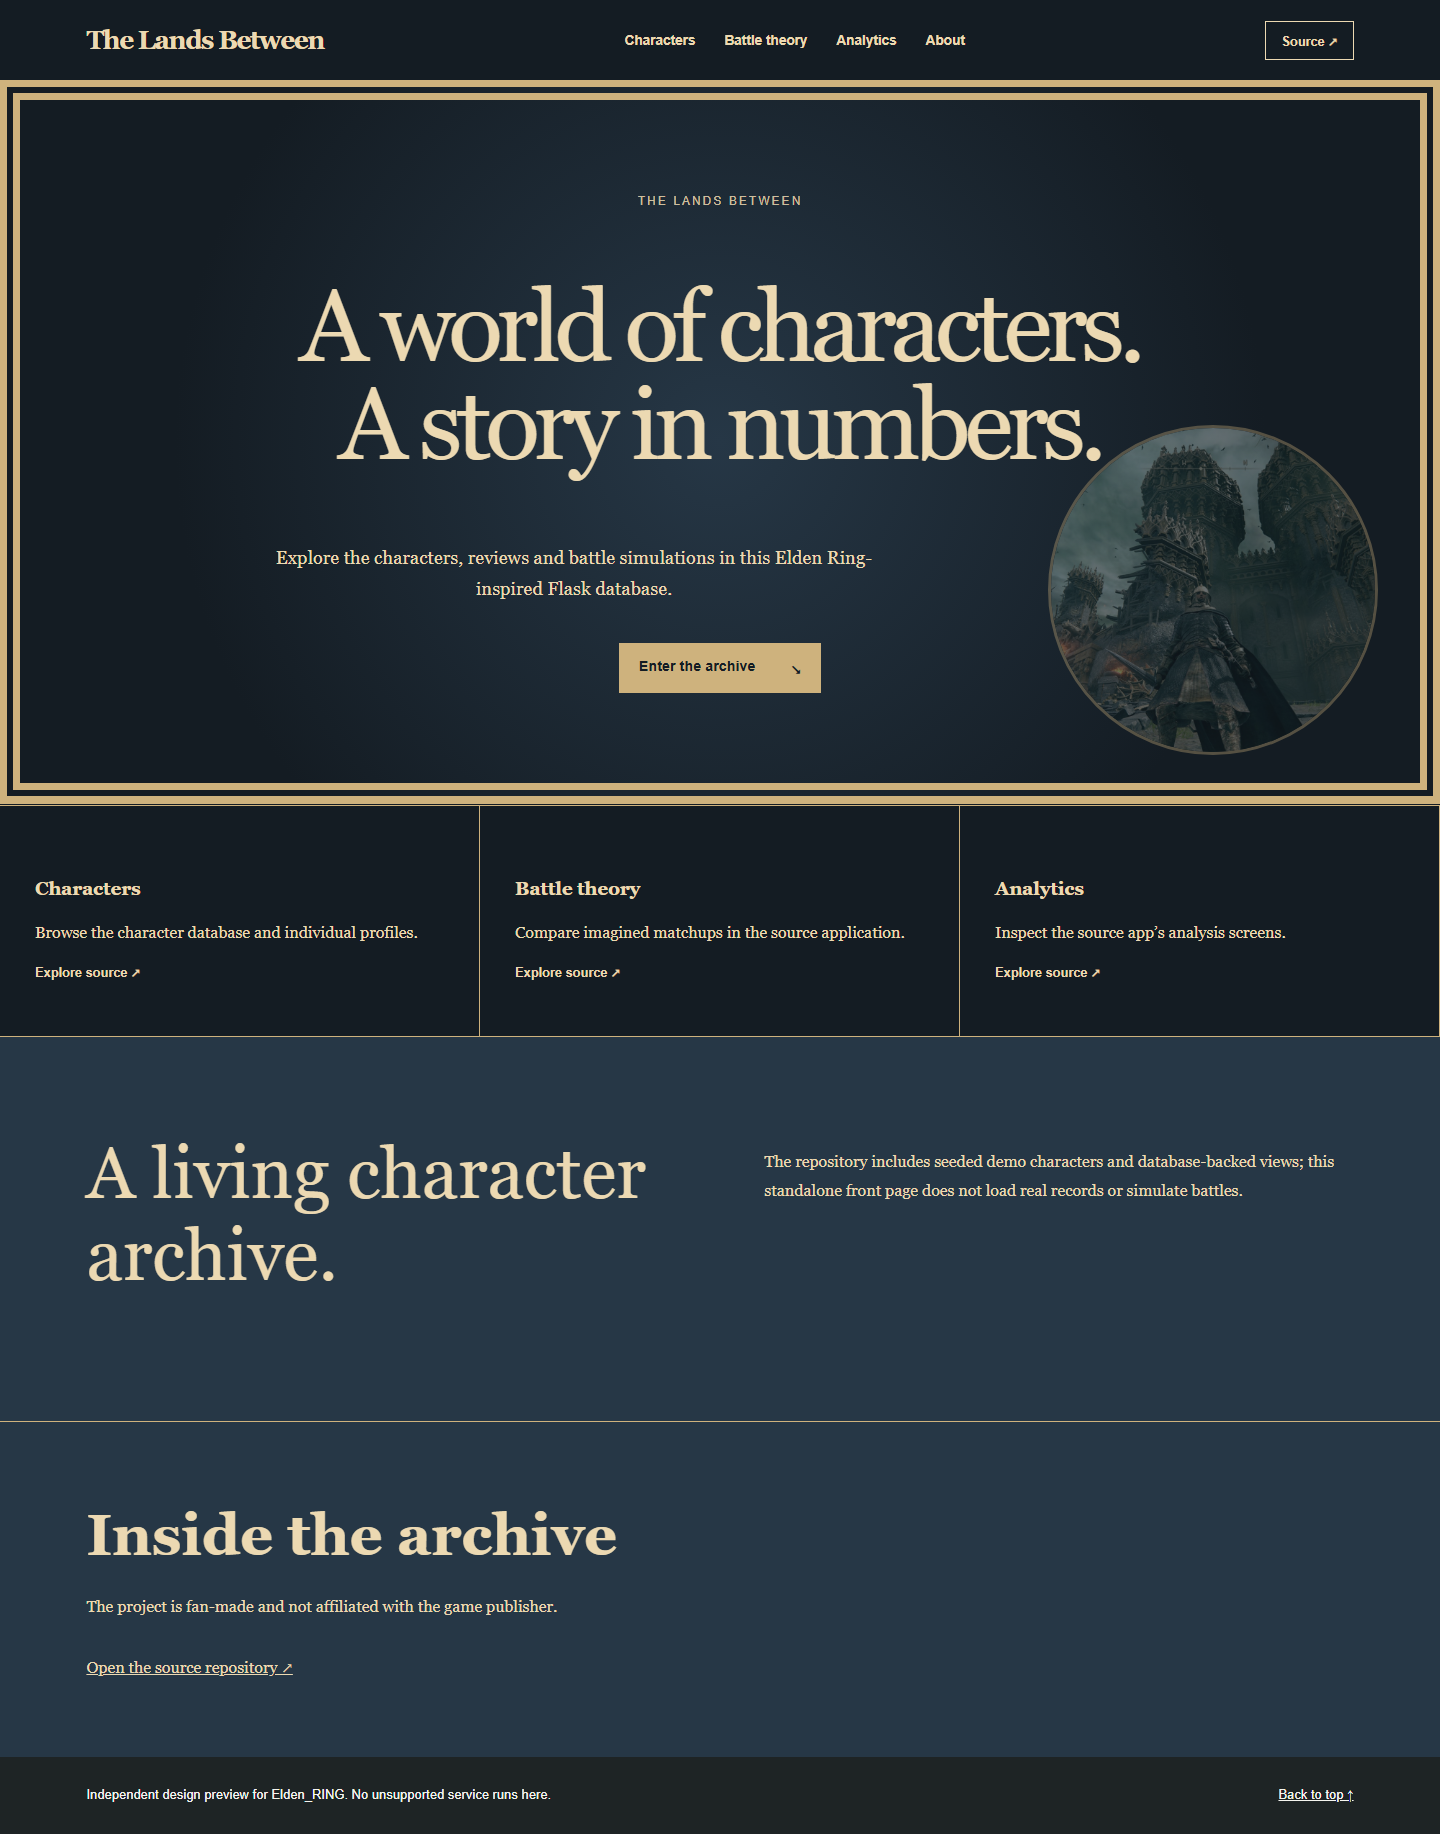
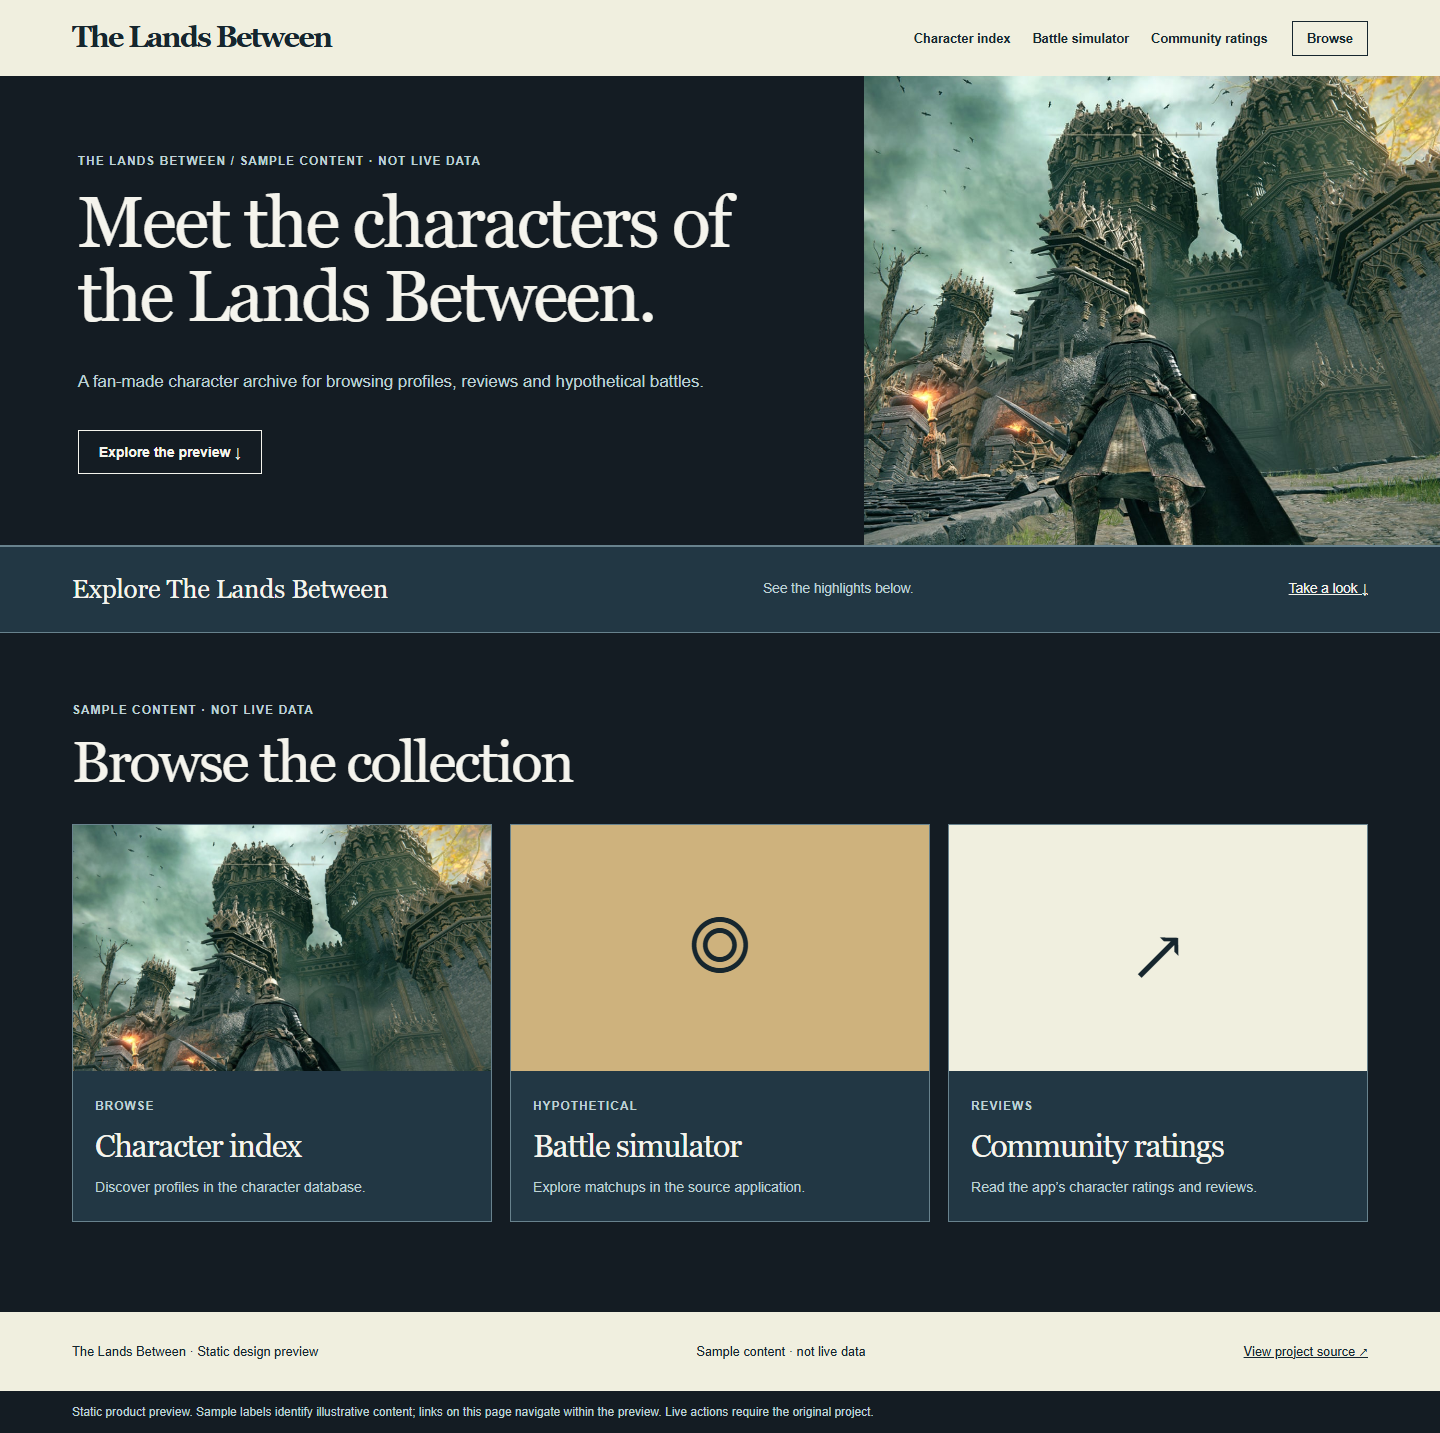
feat: show product-first static homepage preview

diff --git a/showcase-design/product.css b/showcase-design/product.css
@@ -1,0 +1,27 @@
+:root{--p-bg:#141c23;--p-ink:#f5f4ed;--p-accent:#ceb27d;--p-card:#223744;--p-muted:#bfd1d5;--p-border:#68828d;--p-head:#f0efdf;--p-head-ink:#16262e;}
+
+/* Product-first preview. Preserve the original design's palette and assets. */
+body.product-page{background:var(--p-bg);color:var(--p-ink);font-family:Arial,'Segoe UI',sans-serif;line-height:1.5;margin:0}
+.product-page *{box-sizing:border-box}.product-page a{color:inherit}.product-page a:focus-visible{outline:3px solid var(--p-accent);outline-offset:4px}.product-page h1,.product-page h2,.product-page h3{overflow-wrap:anywhere;letter-spacing:-.035em}.product-page p{max-width:68ch}
+.p-skip{position:absolute;top:-90px;left:12px;background:var(--p-card);padding:10px;z-index:10}.p-skip:focus{top:10px}
+.p-nav{min-height:76px;display:flex;align-items:center;gap:24px;padding:12px 5%;background:var(--p-head);color:var(--p-head-ink)}
+.p-brand{text-decoration:none;font:bold clamp(1.25rem,2vw,1.9rem)/1.1 Georgia,serif;letter-spacing:-.06em;flex:0 0 auto}
+.p-nav nav{display:flex;gap:22px;margin-left:auto;overflow-x:auto;scrollbar-width:thin}.p-nav nav a,.p-nav-extra{font:600 .8rem Arial,sans-serif;text-decoration:none;white-space:nowrap}.p-nav nav a:hover,.p-nav-extra:hover{text-decoration:underline;text-underline-offset:4px}.p-nav-extra{border:1px solid currentColor;padding:9px 14px}
+.p-heading{display:grid;grid-template-columns:1.2fr .8fr;min-height:470px;align-items:stretch;border-bottom:1px solid var(--p-border)}.p-copy{padding:72px 7% 64px 9%;display:flex;flex-direction:column;justify-content:center}.p-overline,.p-item small,.p-section-title small,.p-work-head small,.p-newspaper .p-edition{font:700 .72rem Arial,sans-serif;text-transform:uppercase;letter-spacing:.11em;color:var(--p-muted)}
+.p-heading h1{font:normal clamp(3rem,5vw,5.6rem)/1.03 Georgia,serif;margin:18px 0}.p-copy>p{font-size:1.05rem;color:var(--p-muted);line-height:1.7}.p-action{align-self:flex-start;padding:13px 20px;border:1px solid var(--p-ink);text-decoration:none;margin-top:16px;font:700 .87rem Arial,sans-serif}.p-action:hover{background:var(--p-head);color:var(--p-head-ink)}
+.p-hero-image,.p-hero-graphic{min-height:340px;background:var(--p-head);display:grid;place-items:center;overflow:hidden}.p-hero-image img{width:100%;height:100%;max-height:560px;object-fit:cover}.p-hero-graphic span{color:var(--p-accent);font:normal clamp(11rem,25vw,27rem)/1 Georgia,serif}
+.p-newspaper{text-align:center;padding:34px 5% 25px;border-block:3px double var(--p-border)}.p-newspaper h1{font:normal clamp(3.5rem,8vw,8rem)/1 Georgia,serif;margin:14px 0;letter-spacing:-.06em}.p-newspaper p{margin:auto;color:var(--p-muted)}
+.p-front{display:grid;grid-template-columns:1.65fr .8fr;margin:36px 5%;border-block:1px solid var(--p-border)}.p-lead{padding:38px 5% 42px 0;border-right:1px solid var(--p-border)}.p-lead h2{font:normal clamp(2.8rem,5vw,5.5rem)/1.07 Georgia,serif;max-width:14ch;margin:20px 0}.p-lead p{color:var(--p-muted)}.p-front aside{padding:30px 0 25px 8%}.p-front aside>b{font-size:1rem}.p-front aside a{display:flex;gap:20px;padding:20px 0;border-bottom:1px solid var(--p-border);text-decoration:none}.p-front aside span{font-size:.8rem;color:var(--p-muted)}
+.p-shopbar{display:flex;justify-content:space-between;align-items:center;gap:22px;flex-wrap:wrap;padding:28px 5%;background:var(--p-card);border-block:1px solid var(--p-border)}.p-shopbar b{font:normal 1.6rem Georgia,serif}.p-shopbar span{font-size:.85rem;color:var(--p-muted)}.p-shopbar a{font-size:.85rem}
+.p-workspace{margin:42px 5% 30px;padding:30px;background:var(--p-card);border:1px solid var(--p-border)}.p-work-head{display:flex;justify-content:space-between;align-items:center;gap:20px}.p-work-head h2{font:normal clamp(1.7rem,3vw,2.8rem) Georgia,serif;margin:8px 0 25px}.p-chip{font-size:.72rem;padding:7px 10px;border:1px solid var(--p-border);border-radius:20px}.p-steps{display:grid;grid-template-columns:repeat(3,minmax(0,1fr));border:1px solid var(--p-border)}.p-steps a{padding:26px;border-right:1px solid var(--p-border);text-decoration:none;display:grid;gap:9px}.p-steps a:last-child{border-right:0}.p-steps a:hover{background:var(--p-bg)}.p-steps a>span{font-size:.75rem;color:var(--p-muted)}.p-steps a>b{font-size:1.2rem}.p-steps a>small{color:var(--p-muted)}.p-preview{margin-top:22px;min-height:116px;display:flex;align-items:center;gap:26px;padding:22px;background:var(--p-bg);border:1px dashed var(--p-border)}.p-preview-mark{font:2.3rem Consolas,monospace;color:var(--p-accent)}.p-preview p{margin:5px 0 0;color:var(--p-muted);font-size:.85rem}
+.p-collection{padding:64px 5% 90px}.p-section-title{display:flex;justify-content:space-between;gap:25px;align-items:end;margin-bottom:30px}.p-section-title h2{font:normal clamp(2rem,4vw,4rem)/1.1 Georgia,serif;margin:10px 0 0}.p-section-title p{font-size:.8rem;color:var(--p-muted);max-width:23rem;margin:0}.p-grid{display:grid;grid-template-columns:repeat(3,minmax(0,1fr));gap:18px}.p-item{border:1px solid var(--p-border);background:var(--p-card);min-width:0}.p-image{aspect-ratio:1.7;overflow:hidden;display:grid;place-items:center;background:var(--p-head)}.p-image img{width:100%;height:100%;object-fit:cover}.p-image>span{font:normal 5rem Georgia,serif;color:var(--p-accent)}.p-item:nth-child(2) .p-image{background:var(--p-accent)}.p-item:nth-child(2) .p-image span{color:var(--p-head)}.p-item-info{padding:22px}.p-item h3{font:normal clamp(1.3rem,2.2vw,2rem)/1.1 Georgia,serif;margin:12px 0}.p-item p{font-size:.88rem;color:var(--p-muted);line-height:1.6;margin:0}
+.product-news .p-grid,.product-news_bn .p-grid{grid-template-columns:1.3fr 1fr 1fr}.product-news .p-image,.product-news_bn .p-image{aspect-ratio:2.3;background:var(--p-head)}.product-news .p-item,.product-news_bn .p-item{border-width:0 0 1px 0;background:transparent}.product-news .p-item-info,.product-news_bn .p-item-info{padding-left:0}
+.product-store .p-image,.product-commerce .p-image{aspect-ratio:1.1}.product-events .p-item{border-top:4px solid var(--p-accent)}.product-game .p-image,.product-compiler .p-image,.product-notebook .p-image{background:var(--p-head);aspect-ratio:2.4}.product-portfolio .p-grid,.product-architecture .p-grid{gap:28px}.product-empty .p-collection{min-height:470px}
+.p-app-intro{padding:35px 5% 12px}.p-app-intro span{font:700 .7rem Arial,sans-serif;letter-spacing:.1em;text-transform:uppercase;color:var(--p-muted)}.p-app-intro h1{font:normal clamp(2rem,3.5vw,3.6rem)/1.12 Georgia,serif;margin:12px 0 8px}.p-app-intro p{font-size:.9rem;color:var(--p-muted);margin:0}.p-app-intro+.p-workspace{margin-top:14px}.p-story-label{display:inline-block;margin-top:20px;font-size:.8rem;border-top:1px solid var(--p-border);padding-top:12px}
+.product-events .p-heading,.product-store .p-heading,.product-commerce .p-heading{min-height:320px;grid-template-columns:1.25fr .75fr}.product-events .p-copy,.product-store .p-copy,.product-commerce .p-copy{padding-block:38px}.product-events .p-heading h1,.product-store .p-heading h1,.product-commerce .p-heading h1{font-size:clamp(2.7rem,4vw,4.7rem)}
+.p-image>span{color:var(--p-head-ink)}.p-item:nth-child(2) .p-image span{color:var(--p-head-ink)}.product-news .p-grid,.product-news_bn .p-grid{grid-template-columns:1fr 1fr}.product-news .p-item,.product-news_bn .p-item{border-width:1px 0 0 0;background:transparent}.product-news .p-item-info,.product-news_bn .p-item-info{padding:24px 0}.product-news .p-item h3,.product-news_bn .p-item h3{font-size:clamp(1.7rem,3vw,3rem)}
+.p-brand,.p-heading h1,.p-app-intro h1,.p-newspaper h1,.p-lead h2,.p-work-head h2,.p-section-title h2,.p-item h3{font-family:var(--display,var(--serif,var(--font,Georgia,serif)))}
+.p-footer{padding:30px 5%;display:flex;justify-content:space-between;flex-wrap:wrap;gap:16px;background:var(--p-head);color:var(--p-head-ink);font-size:.8rem}.p-footer a{color:inherit}.p-disclosure{max-width:none!important;padding:11px 5%;margin:0;font-size:.75rem;background:var(--p-bg);color:var(--p-muted)}
+@media(max-width:800px){.p-nav{flex-wrap:wrap;gap:12px}.p-nav nav{order:3;width:100%;padding:10px 0;margin-left:0}.p-nav-extra{margin-left:auto}.p-heading{display:block;min-height:0}.p-copy{padding:54px 6%}.p-heading h1{font-size:clamp(2.6rem,9vw,5rem)}.p-hero-image,.p-hero-graphic{height:260px;min-height:260px}.p-hero-graphic span{font-size:13rem}.p-front{display:block}.p-lead{border-right:0;border-bottom:1px solid var(--p-border)}.p-front aside{padding:25px 0}.p-grid{grid-template-columns:repeat(2,minmax(0,1fr))!important}.p-steps{grid-template-columns:1fr}.p-steps a{border-bottom:1px solid var(--p-border);border-right:0!important}.p-steps a:last-child{border-bottom:0}.p-section-title{display:block}.p-section-title p{margin-top:15px}.p-workspace{padding:20px}}
+@media(max-width:550px){.p-grid{grid-template-columns:1fr!important}.p-collection{padding-top:45px}.p-section-title h2{font-size:2.2rem}.p-work-head{align-items:flex-start}.p-chip{max-width:115px;text-align:center}.p-front{margin-top:18px}.p-newspaper h1{font-size:3rem}.p-footer{display:block}.p-footer>*{display:block;margin-bottom:9px}}
+@media(prefers-reduced-motion:reduce){html{scroll-behavior:auto}}

diff --git a/showcase-design/index.html b/showcase-design/index.html
@@ -1,1 +1,1 @@
-<!doctype html><html lang="en"><head><meta charset="utf-8"><meta name="viewport" content="width=device-width,initial-scale=1"><meta name="description" content="Explore the characters, reviews and battle simulations in this Elden Ring-inspired Flask database."><title>The Lands Between — A world of characters. A story in numbers.</title><link rel="stylesheet" href="styles.css"></head><body><a class="skip" href="#main">Skip to content</a><header class="mast" id="top"><a class="brand" href="#top">The Lands Between</a><nav aria-label="Main navigation"><a href="#topic-0">Characters</a><a href="#topic-1">Battle theory</a><a href="#topic-2">Analytics</a><a href="#about">About</a></nav><a class="top-action" href="https://github.com/Athaher-Sayem/Elden_RING/tree/Shocase_design" target="_blank" rel="noopener noreferrer">Source ↗</a></header><main id="main"><section class="hero"><div class="hero-copy"><span class="intro-tag">The Lands Between</span><h1>A world of characters. A story in numbers.</h1><p>Explore the characters, reviews and battle simulations in this Elden Ring-inspired Flask database.</p><a class="cta" href="#browse">Enter the archive <span aria-hidden="true">↘</span></a></div><div class="hero-art" aria-label="Source image"><img src="assets/feature.jpg" alt="Illustration or photograph from the original Elden_RING repository"></div></section><section id="browse" class="topics" aria-label="Explore topics"><a id="topic-0" href="https://github.com/Athaher-Sayem/Elden_RING/blob/Shocase_design/templates/index.html" target="_blank" rel="noopener noreferrer"><h3>Characters</h3><p>Browse the character database and individual profiles.</p><span>Explore source ↗</span></a><a id="topic-1" href="https://github.com/Athaher-Sayem/Elden_RING/blob/Shocase_design/templates/game_theory.html" target="_blank" rel="noopener noreferrer"><h3>Battle theory</h3><p>Compare imagined matchups in the source application.</p><span>Explore source ↗</span></a><a id="topic-2" href="https://github.com/Athaher-Sayem/Elden_RING/blob/Shocase_design/templates/analytics.html" target="_blank" rel="noopener noreferrer"><h3>Analytics</h3><p>Inspect the source app’s analysis screens.</p><span>Explore source ↗</span></a></section><section id="about" class="feature"><h2>A living character archive.</h2><p>The repository includes seeded demo characters and database-backed views; this standalone front page does not load real records or simulate battles.</p></section><section class="source"><h2>Inside the archive</h2><p>The project is fan-made and not affiliated with the game publisher.</p><a href="https://github.com/Athaher-Sayem/Elden_RING/tree/Shocase_design" target="_blank" rel="noopener noreferrer">Open the source repository ↗</a></section></main><footer class="footer"><span>Independent design preview for Elden_RING. No unsupported service runs here.</span><a href="#top">Back to top ↑</a></footer></body></html>
+<!doctype html><html lang="en"><head><meta charset="utf-8"><meta name="viewport" content="width=device-width,initial-scale=1"><meta name="description" content="A fan-made character archive for browsing profiles, reviews and hypothetical battles."><title>The Lands Between — Meet the characters of the Lands Between.</title><link rel="stylesheet" href="styles.css"><link rel="stylesheet" href="product.css"></head><body class="product-page product-archive"><a class="p-skip" href="#main">Skip to content</a><header class="p-nav"><a class="p-brand" href="#home">The Lands Between</a><nav aria-label="Sections"><a href="#item-0">Character index</a><a href="#item-1">Battle simulator</a><a href="#item-2">Community ratings</a></nav><a class="p-nav-extra" href="#items">Browse</a></header><main id="main"><section class="p-heading" id="home"><div class="p-copy"><span class="p-overline">The Lands Between / Sample content · not live data</span><h1>Meet the characters of the Lands Between.</h1><p>A fan-made character archive for browsing profiles, reviews and hypothetical battles.</p><a class="p-action" href="#items">Explore the preview <span aria-hidden="true">↓</span></a></div><div class="p-hero-image"><img src="assets/feature.jpg" alt="Project image from the original repository"></div></section><div id="workspace"><section class="p-shopbar"><b>Explore The Lands Between</b><span>See the highlights below.</span><a href="#items">Take a look ↓</a></section></div><section id="items" class="p-collection"><div class="p-section-title"><div><small>Sample content · not live data</small><h2>Browse the collection</h2></div></div><div class="p-grid archive"><article class="p-item" id="item-0"><div class="p-image archive"><img loading="lazy" src="assets/feature.jpg" alt="Image from the original project"></div><div class="p-item-info"><small>Browse</small><h3>Character index</h3><p>Discover profiles in the character database.</p></div></article><article class="p-item" id="item-1"><div class="p-image archive"><span aria-hidden="true">◎</span></div><div class="p-item-info"><small>Hypothetical</small><h3>Battle simulator</h3><p>Explore matchups in the source application.</p></div></article><article class="p-item" id="item-2"><div class="p-image archive"><span aria-hidden="true">↗</span></div><div class="p-item-info"><small>Reviews</small><h3>Community ratings</h3><p>Read the app’s character ratings and reviews.</p></div></article></div></section></main><footer class="p-footer"><span>The Lands Between · Static design preview</span><span>Sample content · not live data</span><a href="https://github.com/Athaher-Sayem/Elden_RING/tree/Shocase_design" target="_blank" rel="noopener noreferrer">View project source ↗</a></footer><p class="p-disclosure">Static product preview. Sample labels identify illustrative content; links on this page navigate within the preview. Live actions require the original project.</p></body></html>
